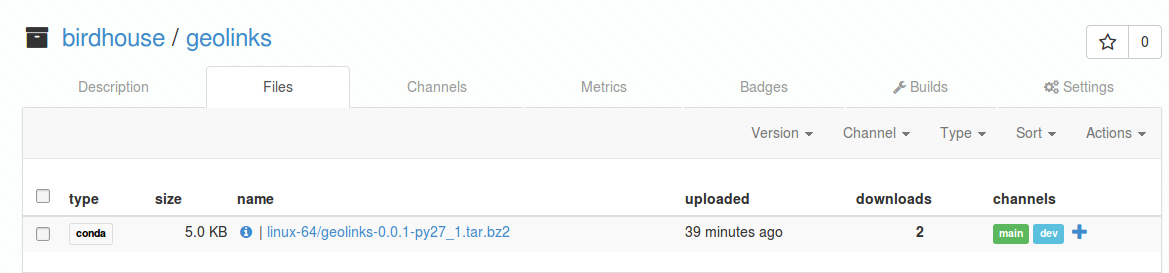
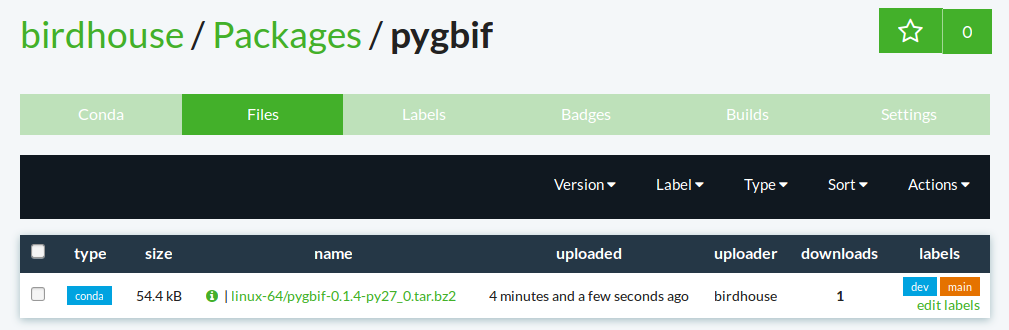
update anaconda example build with pygbif

diff --git a/docs/source/dev_guide.rst b/docs/source/dev_guide.rst
@@ -36,30 +36,30 @@ Birdhouse is using :term:`Anaconda` to maintain package dependencies.
 Anaconda gives you the possibility to write your own `conda recipes <http://conda.pydata.org/docs/build.html>`_.
 In Birdhouse we have written several conda recipes for the packages that were not available on Anaconda.  
 These `additional conda recipes by Birdhouse <https://github.com/bird-house/conda-recipes>`_ are available on GitHub. 
-Some of the missing packages are: :term:`PyWPS`, :term:`OWSLib`, :term:`CDO`, :term:`ocgis`/:term:`icclim`, :term:`cfchecker`, :term:`Nginx`, ...
+Some of the missing packages are: :term:`PyWPS`, :term:`OWSLib`, :term:`cfchecker`, :term:`Nginx`, ...
 
-Anaconda provides a free Anaconda Server on :term:`Binstar`. Here you can upload your builded conda packages for different platforms (Linux, MacOX, Windows). These packages are then available for installation with the :term:`conda` installer.
+Anaconda provides a free :term:`Anaconda Server`. Here you can upload your builded conda packages for different platforms (Linux, MacOX, Windows). These packages are then available for installation with the :term:`conda` installer.
 
-`Birdhouse has a Binstar organisation <https://anaconda.org/birdhouse>`_ where all conda packages are collected which are 
+`Birdhouse has an organisation <https://anaconda.org/birdhouse>`_ where all conda packages are collected which are 
 builded from the conda recipes on GitHub. These packages can be installed with the :term:`conda` installer using the `birdhouse` channel.
 For example if you are already using Anaconda, you can install :term:`CDO` with the following command:
 
 .. code-block:: sh
 
-    $ conda install --channel birdhouse cdo
+    $ conda install --channel birdhouse pywps
 
 Building conda packages
 ~~~~~~~~~~~~~~~~~~~~~~~
 
-There are several ways to build conda packages and upload them to Binstar:
+There are several ways to build conda packages and upload them to *Anaconda Server*:
 
-* You can `build packages locally <http://conda.readthedocs.org/en/latest/#building-your-own-packages>`_ and upload them with the Binstar command line tool.
-* You can also `build packages remotely on Binstar <http://docs.anaconda.org/draft/using.html>`_. Additionally you can set a GitHub Webhook so that on each commit of your recipe a build will be run on Binstar. 
-* The remote build on Binstar are done using Docker images. The `Binstar docker image for Linux-64 <https://hub.docker.com/r/binstar/linux-64/>`_ is available on :term:`Docker Hub`.  
+* You can `build packages locally <http://conda.readthedocs.io/en/latest/#building-your-own-packages>`_ and upload them with the Binstar command line tool.
+* You can also `build packages remotely on Anaconda <http://docs.anaconda.org/draft/using.html>`_. Additionally you can set a GitHub Webhook so that on each commit of your recipe a build will be run on Binstar. 
+* The remote build on Anaconda are done using Docker images. The `Anaconda docker image for Linux-64 <https://hub.docker.com/r/binstar/linux-64/>`_ is available on :term:`Docker Hub`.  
 
-In Birdhouse we usually use the remote build on Binstar which is triggered by commits to GitHub. 
+In Birdhouse we usually use the remote build on Anaconda which is triggered by commits to GitHub. 
 But sometimes the docker image for Linux-64 provided by Binstar fails for some packages. 
-That is why `Birdhouse has in addition its own Linux-64 build image <https://hub.docker.com/r/birdhouse/binstar-linux-64/>`_ which is based on the Binstar image. 
+That is why `Birdhouse has in addition its own Linux-64 build image <https://hub.docker.com/r/birdhouse/binstar-linux-64/>`_ which is based on the Anaconda image. 
 The `Dockerfile for this image <https://github.com/bird-house/birdhouse-build/tree/master/docker/binstar-linux-64>`_ is on GitHub.
 
 .. warning::
@@ -71,23 +71,23 @@ The `Dockerfile for this image <https://github.com/bird-house/birdhouse-build/tr
 
    You can build a conda package with the provided docker image for Linux-64. See the `readme <https://github.com/bird-house/birdhouse-build/tree/master/docker/binstar-linux-64>`_ on how to use it.
 
-Example: building conda package for geolinks
-~~~~~~~~~~~~~~~~~~~~~~~~~~~~~~~~~~~~~~~~~~~~
+Example: building conda package for pygbif
+~~~~~~~~~~~~~~~~~~~~~~~~~~~~~~~~~~~~~~~~~~
 
-Geolinks is a Python package available on :term:`PyPi`. Generate conda package files using ``conda skeleton``::
+``pygbif`` is a Python package available on :term:`PyPi`. Generate conda package files using ``conda skeleton``::
 
-    $ conda skeleton pypi geolinks
-    $ cd geolinks
+    $ conda skeleton pypi pygbif
+    $ cd pygbif
     $ vim meta.yaml  # check dependencies, test, build number
     $ vim build.sh   # in case of non-python packges here is most of the work to do
     
-Enable binstar build::
+Enable anaconda build::
      
-    $ cd geolinks
+    $ cd pygbif
     $ anaconda-build init
-    $ vim .binstar.yaml
+    $ vim .binstar.yml
     
-Edit the binstar config to have the following entries (change the package name for a different recipe):
+Edit the anaconda config (``binstar.yml``) to have the following entries (change the package name for a different recipe):
 
 .. literalinclude:: binstar.yml
     :language: yaml
@@ -97,11 +97,11 @@ Run binstar build for the first time:
 
 .. code-block:: sh
 
-    $ binstar package --create birdhouse/geolinks
+    $ binstar package --create birdhouse/pygbif
     $ anaconda-build submit .
-    $ anaconda-build tail -f birdhouse/geolinks 1    # checks logs
+    $ anaconda-build tail -f birdhouse/pygbif 1    # checks logs
 
-On successful build go to the birdhouse channel on binstar and search for the `geolinks package` (``http://anaconda.org/birdhouse/geolinks/files``). 
+On successful build go to the birdhouse channel on binstar and search for the `pygbif package` (``http://anaconda.org/birdhouse/pygbif/files``). 
 Go to the ``files`` tab and add the channel `main` for the successfully builded package. 
 All packages on the `main` channel are available for public usage.
 
@@ -109,12 +109,12 @@ All packages on the `main` channel are available for public usage.
 
 Register GitHub webhook for geolinks: 
 
-on binstar go to `Settings/Continuous Integration` of the geolinks package. 
+on binstar go to `Settings/Continuous Integration` of the ``pygbif`` package. 
 
 Edit the fields:
 
-* `github.com/` = `bird-house/geolinks`
-* Subdirectory = geolinks
+* `github.com/` = `bird-house/conda-recipes`
+* Subdirectory = pygbif
  
 .. image:: _images/binstar_ci.png
 

diff --git a/docs/source/appendix.rst b/docs/source/appendix.rst
@@ -136,6 +136,8 @@ List of available Web Processing Services:
 * delatres - ``http://dtvirt5.deltares.nl/wps/?Request=GetCapabilities&Service=WPS``
 * 52 North - ``http://geoprocessing.demo.52north.org:8080/52n-wps-webapp-3.3.1/WebProcessingService?Request=GetCapabilities&Service=WPS``
 * 52 North - ``http://geoprocessing.demo.52north.org:8080/52n-wps-webapp-3.3.1-gt/WebProcessingService?Request=GetCapabilities&Service=WPS``
+* ZOO Demo WPS - ``http://zoo-project.org/cgi-bin/zoo_loader3.cgi?Request=GetCapabilities&Service=WPS``
+* British Antarctic Survey WPS for Meteorological Data - ``http://sosmet.nerc-bas.ac.uk:8080/wpsmet/WebProcessingService?Request=GetCapabilities&Service=WPS``
 
 Alternatives to WPS
 ===================
